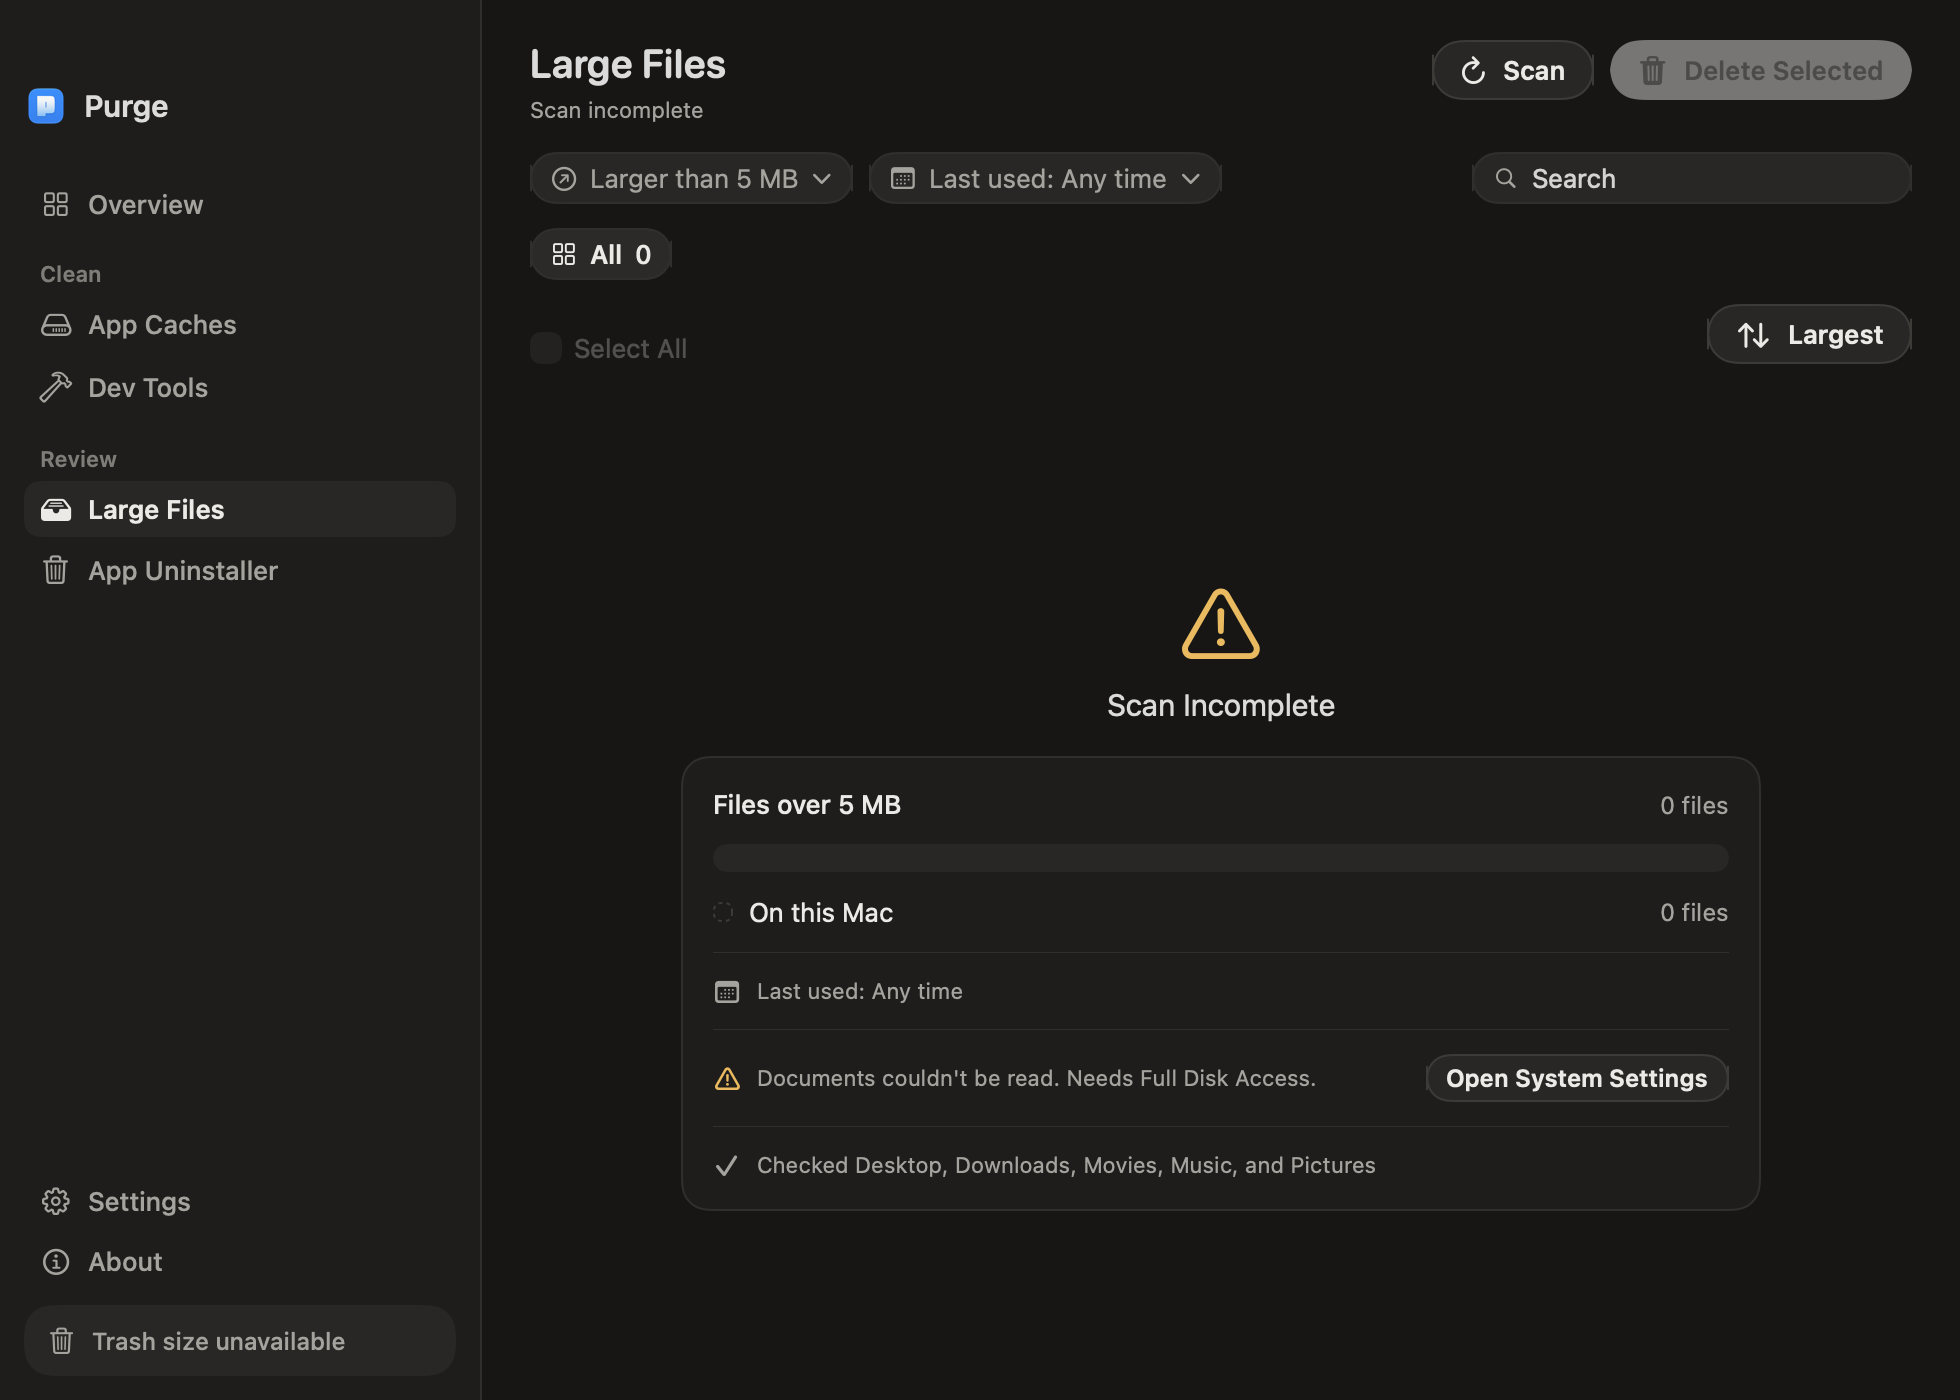
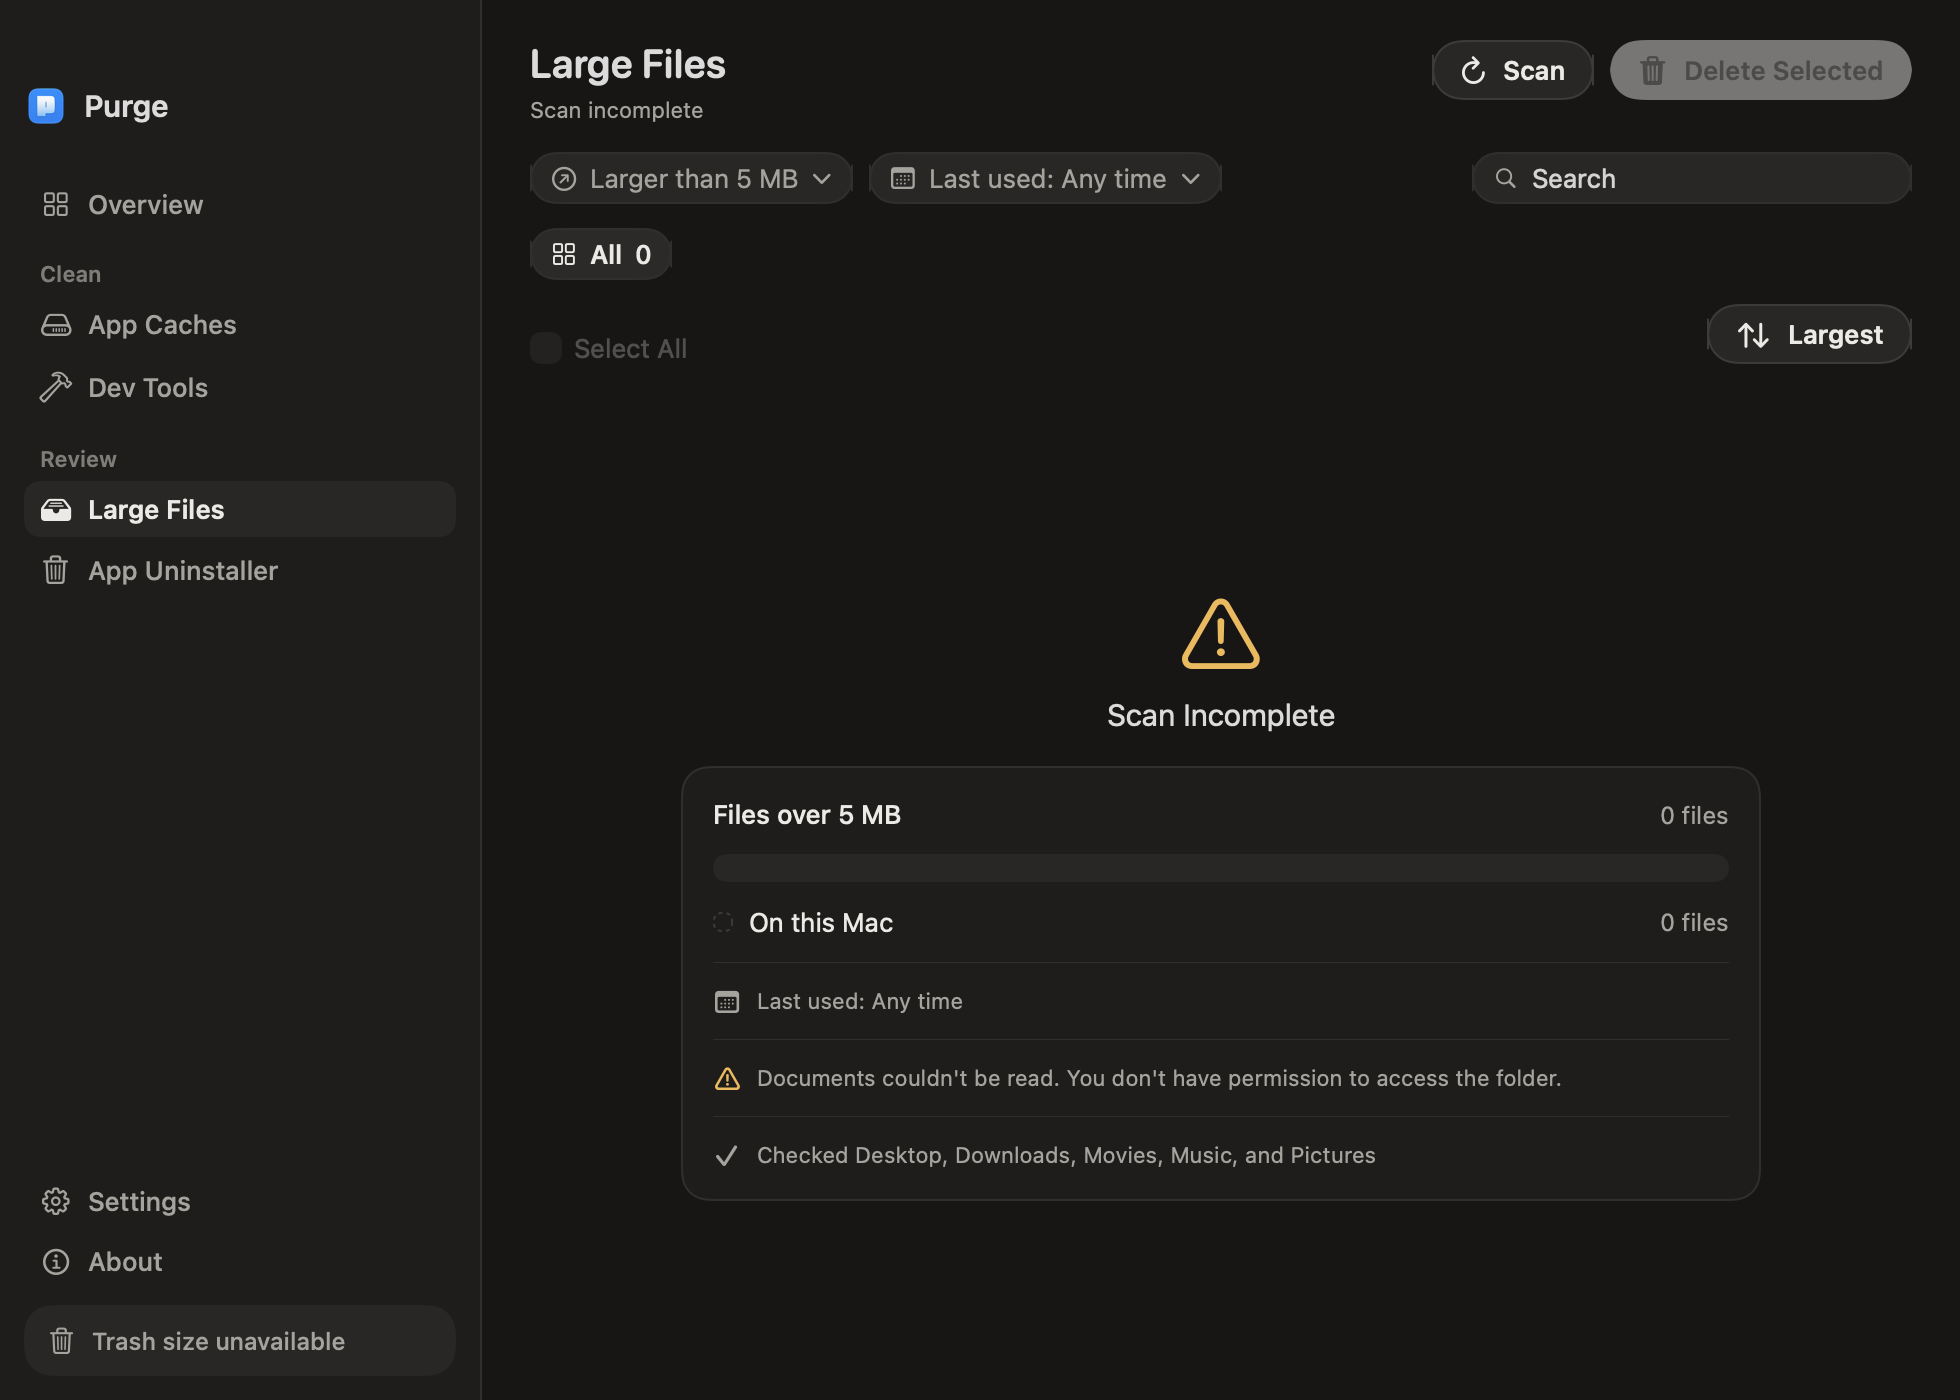
fix: answer the review on the Large Files summary (#230)
Sync roots decide the provider before iCloud's item flag, which File
Provider items carry too. The unreadable-folder row shows macOS's reason
and no Settings button, since Large Files only scans with Full Disk
Access. The empty state scrolls when the card outgrows the window. An
excluded library is not walked. The gate test covers every library kind
under six roots.

diff --git a/PurgeTests/LargeFileScanSummaryTests.swift b/PurgeTests/LargeFileScanSummaryTests.swift
@@ -102,6 +102,9 @@ struct LargeFileScanSummaryTests {
         #expect(provider("Library/CloudStorage/ProtonDrive-me/a.zip") == .other("ProtonDrive"))
         #expect(provider("Documents/a.pst") == .unknown)
         #expect(provider("Documents/a.pst", ubiquitous: true) == .iCloudDrive)
+        // File Provider items can carry iCloud's flag too; the sync root decides.
+        #expect(provider("Library/CloudStorage/OneDrive-Personal/a.pst", ubiquitous: true) == .oneDrive)
+        #expect(provider("Library/CloudStorage/Dropbox/a.mov", ubiquitous: true) == .dropbox)
         #expect(LargeFileScanSummary.CloudProvider.other("ProtonDrive").displayName == "ProtonDrive")
     }
 
@@ -194,16 +197,31 @@ struct LargeFileScanSummaryTests {
     func summaryPathsNeverPassTheDeleteGate() async throws {
         let home = try makeRoot("gatehome")
         defer { try? FileManager.default.removeItem(at: home) }
-        let pictures = home.appendingPathComponent("Pictures", isDirectory: true)
-        let library = pictures.appendingPathComponent("Photos Library.photoslibrary", isDirectory: true)
-        try FileManager.default.createDirectory(at: library, withIntermediateDirectories: true)
-        try Data(repeating: 1, count: 4096).write(to: library.appendingPathComponent("db.sqlite"))
+        let fm = FileManager.default
+        let roots = ["Pictures", "Movies", "Music", "Downloads", "Documents", "Desktop"].map {
+            home.appendingPathComponent($0, isDirectory: true)
+        }
+        var expected = 0
+        for root in roots {
+            for ext in LargeFileScanSummary.SkippedLibrary.extensions.sorted() {
+                let library = root.appendingPathComponent("Library.\(ext)", isDirectory: true)
+                try fm.createDirectory(at: library, withIntermediateDirectories: true)
+                try Data(repeating: 1, count: 4096).write(to: library.appendingPathComponent("db.sqlite"))
+                expected += 1
+            }
+        }
 
-        let run = await scan(roots: [pictures], home: home)
+        let run = await scan(roots: roots, home: home)
         let summary = try #require(run.summary)
-        let skipped = try #require(summary.skippedLibraries.first)
-        #expect(!LargeFileScanPolicy.isEligibleForDeletion(skipped.path, home: home))
-        #expect(!LargeFileScanPolicy.isEligibleForDeletion(library.appendingPathComponent("db.sqlite"), home: home))
+        #expect(run.files.isEmpty)
+        #expect(summary.skippedLibraries.count == expected)
+        for skipped in summary.skippedLibraries {
+            #expect(!LargeFileScanPolicy.isEligibleForDeletion(skipped.path, home: home), "\(skipped.path.path)")
+            #expect(
+                !LargeFileScanPolicy.isEligibleForDeletion(skipped.path.appendingPathComponent("db.sqlite"), home: home),
+                "\(skipped.path.path)/db.sqlite"
+            )
+        }
     }
 
     @Test
@@ -232,6 +250,16 @@ struct LargeFileScanSummaryTests {
         #expect(summary.cloudOnly.map(\.provider) == [.iCloudDrive, .oneDrive, .unknown])
         #expect(summary.cloudOnly.map(\.count) == [1, 2, 1])
         #expect(summary.cloudOnly.map(\.bytes) == [3, 6, 1])
+    }
+
+    @Test
+    func unreadableTextCarriesTheSystemReasonWhenThereIsOne() {
+        let root = URL(fileURLWithPath: "/Users/someone/Documents", isDirectory: true)
+        #expect(
+            LargeFileScanSummaryCard.unreadableText(.init(path: root, reason: "You don't have permission."))
+                == "Documents couldn't be read. You don't have permission."
+        )
+        #expect(LargeFileScanSummaryCard.unreadableText(.init(path: root, reason: "")) == "Documents couldn't be read.")
     }
 
     @Test

diff --git a/purge/Models/LargeFileScanSummary.swift b/purge/Models/LargeFileScanSummary.swift
@@ -45,12 +45,13 @@ nonisolated struct LargeFileScanSummary: Equatable, Sendable {
             }
         }
 
-        /// Which provider a placeholder belongs to. iCloud marks its items; the
-        /// File Provider services keep theirs under `~/Library/CloudStorage/<Name>-…`,
-        /// and a folder the user moved there (OneDrive's Folder Backup) resolves into
-        /// it through a link, so the path is resolved first.
+        /// Which provider a placeholder belongs to. The File Provider services keep
+        /// theirs under `~/Library/CloudStorage/<Name>-…`, and a folder the user
+        /// moved there (OneDrive's Folder Backup) resolves into it through a link,
+        /// so the path is resolved first. The sync root wins over iCloud's item
+        /// flag, which File Provider items can carry too; the flag decides only
+        /// outside any sync root, where iCloud Drive keeps its files.
         static func provider(for url: URL, isUbiquitous: Bool, home: URL) -> CloudProvider {
-            if isUbiquitous { return .iCloudDrive }
             let cloudStorage = home
                 .appendingPathComponent("Library/CloudStorage", isDirectory: true)
                 .resolvingSymlinksInPath().path + "/"
@@ -58,7 +59,7 @@ nonisolated struct LargeFileScanSummary: Equatable, Sendable {
             // missing resolves to itself, link and all.
             let resolved = url.deletingLastPathComponent().resolvingSymlinksInPath()
                 .appendingPathComponent(url.lastPathComponent).path
-            guard resolved.hasPrefix(cloudStorage) else { return .unknown }
+            guard resolved.hasPrefix(cloudStorage) else { return isUbiquitous ? .iCloudDrive : .unknown }
             let folder = String(resolved.dropFirst(cloudStorage.count)).split(separator: "/").first.map(String.init) ?? ""
             let prefix = folder.split(separator: "-", maxSplits: 1).first.map(String.init) ?? folder
             switch prefix {
@@ -110,6 +111,7 @@ nonisolated struct LargeFileScanSummary: Equatable, Sendable {
     /// without this record.
     struct UnreadableRoot: Equatable, Sendable, Identifiable {
         let path: URL
+        /// What macOS said, as a sentence, or empty when it gave no error.
         let reason: String
 
         var id: String { path.path }

diff --git a/purge/Views/LargeFileScanSummaryCard.swift b/purge/Views/LargeFileScanSummaryCard.swift
@@ -4,7 +4,7 @@ import SwiftUI
 /// The heading an empty Large Files list gets, from what the scan skipped (#230).
 /// One state at a time, the most urgent first: a folder the scan couldn't open
 /// beats everything, because the result may be missing files.
-enum LargeFileEmptyState: Equatable {
+nonisolated enum LargeFileEmptyState: Equatable {
     case nothingLarge
     case cloudOnly
     case library
@@ -63,7 +63,6 @@ struct LargeFileScanSummaryCard: View {
     let onThisMacCount: Int
     let onThisMacBytes: Int64
     var emptyListFooters: EmptyListFooters?
-    var onOpenSettings: () -> Void = { openFullDiskAccessSettings() }
 
     private static let thisMacID = "thisMac"
     private static let swatchSize: CGFloat = 10
@@ -126,12 +125,14 @@ struct LargeFileScanSummaryCard: View {
                     }
                 )
             }
+            // Large Files only scans with Full Disk Access, so a root that still
+            // can't be read failed for another reason: macOS's own words say which.
             ForEach(summary.unreadableRoots) { root in
                 footerRow(
                     symbol: "exclamationmark.triangle",
                     tint: AppColors.statusCheckText,
-                    text: String(localized: "\(root.name) couldn't be read. Needs Full Disk Access."),
-                    button: (String(localized: "Open System Settings"), onOpenSettings)
+                    text: Self.unreadableText(root),
+                    button: nil
                 )
             }
             if emptyListFooters != nil, !summary.checkedRoots.isEmpty {
@@ -265,6 +266,13 @@ struct LargeFileScanSummaryCard: View {
     private var checkedList: String {
         let names = summary.checkedRoots.map(\.lastPathComponent)
         return ListFormatter.localizedString(byJoining: names)
+    }
+
+    /// "Documents couldn't be read. You don't have permission to access the folder."
+    static func unreadableText(_ root: LargeFileScanSummary.UnreadableRoot) -> String {
+        let lead = String(localized: "\(root.name) couldn't be read.")
+        let reason = root.reason.trimmingCharacters(in: .whitespacesAndNewlines)
+        return reason.isEmpty ? lead : "\(lead) \(reason)"
     }
 
     /// "14 files · 9.8 GB", or "0 files" when there is no size to give.

diff --git a/purge/Views/LargeFilesView.swift b/purge/Views/LargeFilesView.swift
@@ -535,24 +535,32 @@ struct LargeFilesView: View {
     private var emptyState: some View {
         let summary = store.largeFileScanSummary
         let state = LargeFileEmptyState.resolve(summary)
-        return VStack(spacing: AppStyle.Spacing.medium) {
-            VStack(spacing: 10) {
-                Image(systemName: state.symbol)
-                    .font(.system(size: 38))
-                    .foregroundStyle(state.symbolColor)
-                Text(state.title)
-                    .font(AppStyle.Typography.sectionTitle.weight(.regular))
-                if summary == nil {
-                    Text("Try a lower size threshold or a shorter last-used window.")
-                        .foregroundStyle(AppColors.textSecondary)
+        // Centred while it fits, scrollable once the card grows a row per
+        // provider, library and unreadable folder past the window's height.
+        return GeometryReader { geometry in
+            ScrollView {
+                VStack(spacing: AppStyle.Spacing.medium) {
+                    VStack(spacing: 10) {
+                        Image(systemName: state.symbol)
+                            .font(.system(size: 38))
+                            .foregroundStyle(state.symbolColor)
+                        Text(state.title)
+                            .font(AppStyle.Typography.sectionTitle.weight(.regular))
+                        if summary == nil {
+                            Text("Try a lower size threshold or a shorter last-used window.")
+                                .foregroundStyle(AppColors.textSecondary)
+                        }
+                    }
+                    if let summary {
+                        summaryCard(summary, forEmptyList: true)
+                            .frame(width: Self.summaryCardWidth)
+                    }
                 }
-            }
-            if let summary {
-                summaryCard(summary, forEmptyList: true)
-                    .frame(width: Self.summaryCardWidth)
+                .padding(.vertical, AppStyle.Spacing.large)
+                .frame(maxWidth: .infinity)
+                .frame(minHeight: geometry.size.height)
             }
         }
-        .frame(maxWidth: .infinity, maxHeight: .infinity)
     }
 
     private var emptyFilterState: some View {

diff --git a/purge/Services/LargeFileScanner.swift b/purge/Services/LargeFileScanner.swift
@@ -148,7 +148,7 @@ nonisolated final class LargeFileScanner {
                 }
             ) else {
                 if !bundlesOnly {
-                    summary.unreadableRoots.append(.init(path: root, reason: String(localized: "Couldn't be listed")))
+                    summary.unreadableRoots.append(.init(path: root, reason: ""))
                 }
                 continue
             }
@@ -205,8 +205,11 @@ nonisolated final class LargeFileScanner {
                             if !bundlesOnly, !isUserExcluded,
                                LargeFileScanSummary.SkippedLibrary.extensions.contains(fileURL.pathExtension.lowercased()) {
                                 enumerator.skipDescendants()
+                                // The exclusion check comes before the walk: a library
+                                // the user excluded must not cost the scan its size.
+                                guard !isExcluded(fileURL) else { continue }
                                 let measured = FolderSizing.walkedSize(at: fileURL, skipsPackages: false)
-                                if measured.bytes >= minBytes, !isExcluded(fileURL) {
+                                if measured.bytes >= minBytes {
                                     summary.skippedLibraries.append(
                                         .init(path: fileURL.standardizedFileURL, bytes: measured.bytes)
                                     )
